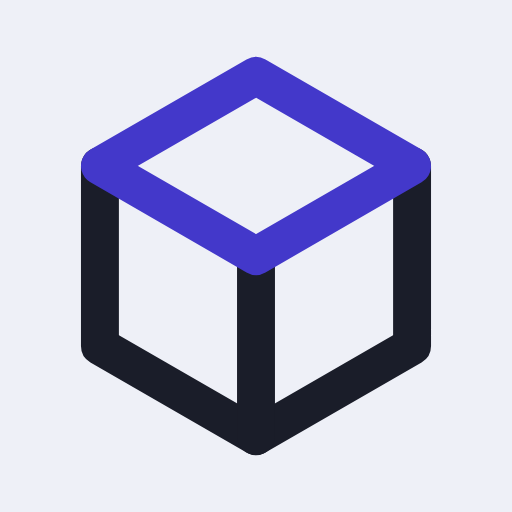
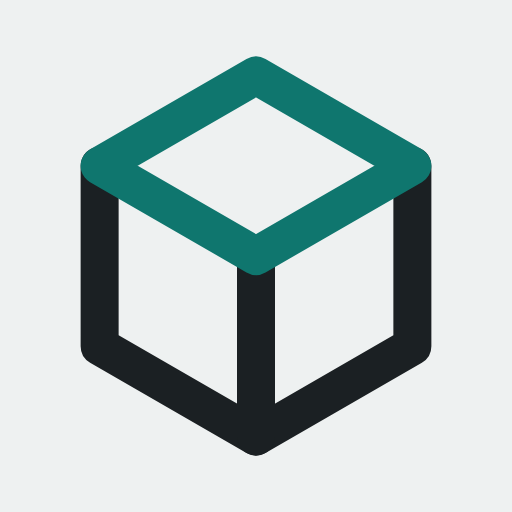
manager: colours of its own, teal on graphite
The page used Stocktake's indigo on navy, so the two looked like one product.
Teal is the accent measured clearly apart from both that indigo and the status
colours, to normal eyes and under a deuteranopia simulation, which amber, the
obvious choice, isn't: to deutan eyes it all but matches the warning colour.

The stylesheet holds the colours, but the mark and the terminal carry copies, so
a new test keeps those in step and what's read on the page above 4.5:1.

Changed region(s): [[0.1562, 0.0938, 0.8438, 0.5312]]

diff --git a/rootfs/usr/local/lib/opsbox/manager/static/manager.css b/rootfs/usr/local/lib/opsbox/manager/static/manager.css
@@ -1,10 +1,12 @@
-/* The manager page. Tokens and direction from Stocktake's "deep glass": a washed
-   ground, translucent panels, one gradient on the action that matters. The six
-   spacing steps and the type scale are used everywhere, rather than a margin per
-   rule, which is what keeps the page from looking assembled.
+/* The manager page. Direction from Stocktake's "deep glass": a washed ground,
+   translucent panels, one gradient on the action that matters. The six spacing
+   steps and the type scale are used everywhere, rather than a margin per rule,
+   which is what keeps the page from looking assembled.
 
-   The accent is indigo because the owner is deutan: it's the one region that
-   stays apart from the status colours for him. Status always has a word too. */
+   The colours are its own, teal on graphite, so it doesn't read as Stocktake. The
+   owner is deutan, and of the accents measured under a deuteranopia simulation,
+   teal is the one clearly apart from both Stocktake's indigo and the status
+   colours for him. Status always has a word too. */
 
 :root {
   /* Native controls too: an unticked checkbox stays white on a dark page without it. */
@@ -28,36 +30,36 @@
   --control-small: 1.875rem;
   --mono: ui-monospace, SFMono-Regular, Menlo, Consolas, "Liberation Mono", monospace;
 
-  --bg: #eef0f7;
+  --bg: #eef1f1;
   --panel: rgb(255 255 255 / 0.74);
-  --panel-solid: #f7f8fc;
-  --sunken: #e7eaf4;
+  --panel-solid: #f7f9f9;
+  --sunken: #e6ebeb;
   --chrome: rgb(255 255 255 / 0.92);
-  --text: #1a1d29;
-  --muted: #5f6579;
-  --line: rgb(24 24 60 / 0.1);
+  --text: #1b2023;
+  --muted: #5a656a;
+  --line: rgb(20 40 44 / 0.12);
   --up: #1a7f37;
   --down: #c62828;
   --warn: #a16207;
   --danger: #c62828;
-  --shadow-sm: 0 1px 2px rgb(24 20 60 / 0.06);
-  --shadow: 0 10px 30px rgb(24 20 60 / 0.1);
+  --shadow-sm: 0 1px 2px rgb(15 30 34 / 0.06);
+  --shadow: 0 10px 30px rgb(15 30 34 / 0.1);
   --on-accent: #fff;
-  --accent: #4338ca;
-  --accent-grad: linear-gradient(135deg, #4f46e5, #7c3aed);
+  --accent: #0f766e;
+  --accent-grad: linear-gradient(135deg, #115e59, #0f766e);
   --accent-soft: color-mix(in srgb, var(--accent) 12%, transparent);
   --wash: radial-gradient(1200px 460px at 18% -12%, color-mix(in srgb, var(--accent) 20%, transparent) 0%, transparent 68%);
 }
 
 @media (prefers-color-scheme: dark) {
   :root {
-    --bg: #0d1018;
-    --panel: rgb(28 33 50 / 0.72);
-    --panel-solid: #1b2030;
-    --sunken: #141826;
-    --chrome: rgb(20 24 38 / 0.88);
-    --text: #e9ecf6;
-    --muted: #98a0bb;
+    --bg: #0e1214;
+    --panel: rgb(31 37 40 / 0.72);
+    --panel-solid: #1c2225;
+    --sunken: #14191b;
+    --chrome: rgb(20 25 27 / 0.88);
+    --text: #e8edee;
+    --muted: #98a4a8;
     --line: rgb(255 255 255 / 0.09);
     --up: #2ea043;
     --down: #f25050;
@@ -65,10 +67,10 @@
     --danger: #dc2626;
     --shadow-sm: 0 1px 2px rgb(0 0 0 / 0.3);
     --shadow: 0 16px 44px rgb(0 0 0 / 0.5);
-    /* White on the lifted indigo measures under 3:1; this is over 7:1. */
-    --on-accent: #0d1018;
-    --accent: #8b83f0;
-    --accent-grad: linear-gradient(135deg, #8b83f0, #b78af5);
+    /* White on the lifted teal measures under 2:1; this is over 7:1. */
+    --on-accent: #0b0f11;
+    --accent: #2dd4bf;
+    --accent-grad: linear-gradient(135deg, #2dd4bf, #5eead4);
   }
 }
 
@@ -373,13 +375,13 @@ button.tab[aria-selected="true"] { background: var(--panel-solid); color: var(--
   height: clamp(18rem, 58vh, 38rem);
   margin-top: var(--sp-3);
   padding: var(--sp-2) var(--sp-1) var(--sp-2) var(--sp-3);
-  background: #0b0e14;
+  background: #0b0f11;
   border-radius: var(--radius-sm);
 }
 .terminal { width: 100%; height: 100%; overflow: hidden; }
 /* xterm's own stylesheet paints this black, which shows as a stripe under the
    last row. */
-#console .terminal .xterm .xterm-viewport { background-color: #0b0e14; }
+#console .terminal .xterm .xterm-viewport { background-color: #0b0f11; }
 
 /* ── what happened ─────────────────────────────────────────────────────── */
 

diff --git a/rootfs/usr/local/lib/opsbox/manager/static/manager.js b/rootfs/usr/local/lib/opsbox/manager/static/manager.js
@@ -187,11 +187,11 @@
       fontSize: 13,
       scrollback: 5000,
       theme: {
-        background: "#0b0e14",
-        foreground: "#e7eaf4",
-        cursor: "#8b83f0",
-        cursorAccent: "#0b0e14",
-        selectionBackground: "rgba(139, 131, 240, 0.35)"
+        background: "#0b0f11",
+        foreground: "#e6ebec",
+        cursor: "#2dd4bf",
+        cursorAccent: "#0b0f11",
+        selectionBackground: "rgba(45, 212, 191, 0.3)"
       }
     });
     var fit = window.FitAddon ? new window.FitAddon.FitAddon() : null;

diff --git a/tests/manager/test_colours.py b/tests/manager/test_colours.py
@@ -1,0 +1,78 @@
+"""The page's colours: what people read stays readable, and the copies of the accent agree.
+
+The stylesheet holds the colours, but the mark and the terminal can't read its
+variables, so they carry their own copies, which a change of scheme can miss.
+"""
+from __future__ import annotations
+
+import re
+from pathlib import Path
+
+import pytest
+
+STATIC = Path(__file__).resolve().parents[2] / "rootfs/usr/local/lib/opsbox/manager/static"
+CSS = (STATIC / "manager.css").read_text()
+LIGHT_PART, DARK_PART = CSS.split("@media (prefers-color-scheme: dark)", 1)
+TOKEN = re.compile(r"--([a-z-]+):\s*([^;]+);")
+
+LIGHT = dict(TOKEN.findall(LIGHT_PART))
+DARK = {**LIGHT, **dict(TOKEN.findall(DARK_PART.split("\n}\n", 1)[0]))}
+
+
+def luminance(colour: str) -> float:
+    """WCAG relative luminance of #rgb or #rrggbb."""
+    digits = colour.lstrip("#")
+    if len(digits) == 3:
+        digits = "".join(c * 2 for c in digits)
+    channels = [int(digits[i:i + 2], 16) / 255 for i in (0, 2, 4)]
+    r, g, b = (c / 12.92 if c <= 0.04045 else ((c + 0.055) / 1.055) ** 2.4 for c in channels)
+    return 0.2126 * r + 0.7152 * g + 0.0722 * b
+
+
+def contrast(a: str, b: str) -> float:
+    """WCAG contrast ratio of two colours."""
+    high, low = sorted((luminance(a), luminance(b)), reverse=True)
+    return (high + 0.05) / (low + 0.05)
+
+
+@pytest.mark.parametrize("theme", [LIGHT, DARK], ids=["light", "dark"])
+@pytest.mark.parametrize("ink", ["text", "muted", "accent", "down"])
+@pytest.mark.parametrize("ground", ["bg", "panel-solid", "sunken"])
+def test_words_on_the_page_are_readable(theme: dict[str, str], ink: str, ground: str) -> None:
+    """Down is here for the words on a danger button."""
+    assert contrast(theme[ink], theme[ground]) >= 4.5
+
+
+@pytest.mark.parametrize("theme", [LIGHT, DARK], ids=["light", "dark"])
+@pytest.mark.parametrize("symbol", ["up", "warn"])
+@pytest.mark.parametrize("ground", ["bg", "panel-solid", "sunken"])
+def test_status_symbols_stand_out(theme: dict[str, str], symbol: str, ground: str) -> None:
+    """They're graphics, at 3:1: a status's word is in the text colour."""
+    assert contrast(theme[symbol], theme[ground]) >= 3
+
+
+@pytest.mark.parametrize("theme", [LIGHT, DARK], ids=["light", "dark"])
+def test_the_main_button_is_readable_across_its_gradient(theme: dict[str, str]) -> None:
+    stops = re.findall(r"#[0-9a-f]{3,6}", theme["accent-grad"])
+    assert len(stops) >= 2
+    for stop in stops:
+        assert contrast(theme["on-accent"], stop) >= 4.5
+
+
+def test_the_mark_uses_the_accent_in_both_themes() -> None:
+    """The favicon can't read the stylesheet's variables."""
+    icon = (STATIC / "icon.svg").read_text()
+    light, dark = icon.split("@media (prefers-color-scheme: dark)", 1)
+    assert f".top {{ stroke: {LIGHT['accent']}; }}" in light
+    assert f".top {{ stroke: {DARK['accent']}; }}" in dark
+
+
+def test_the_terminal_uses_the_page_s_colours() -> None:
+    """xterm takes its theme as values, not variables, and the terminal stays dark in both themes."""
+    script = (STATIC / "manager.js").read_text()
+    assert f'cursor: "{DARK["accent"]}"' in script
+    backgrounds = set(re.findall(r'background: "(#[0-9a-f]{6})"', script))
+    assert len(backgrounds) == 1
+    ground = backgrounds.pop()
+    assert f"background: {ground};" in CSS
+    assert f"background-color: {ground};" in CSS
